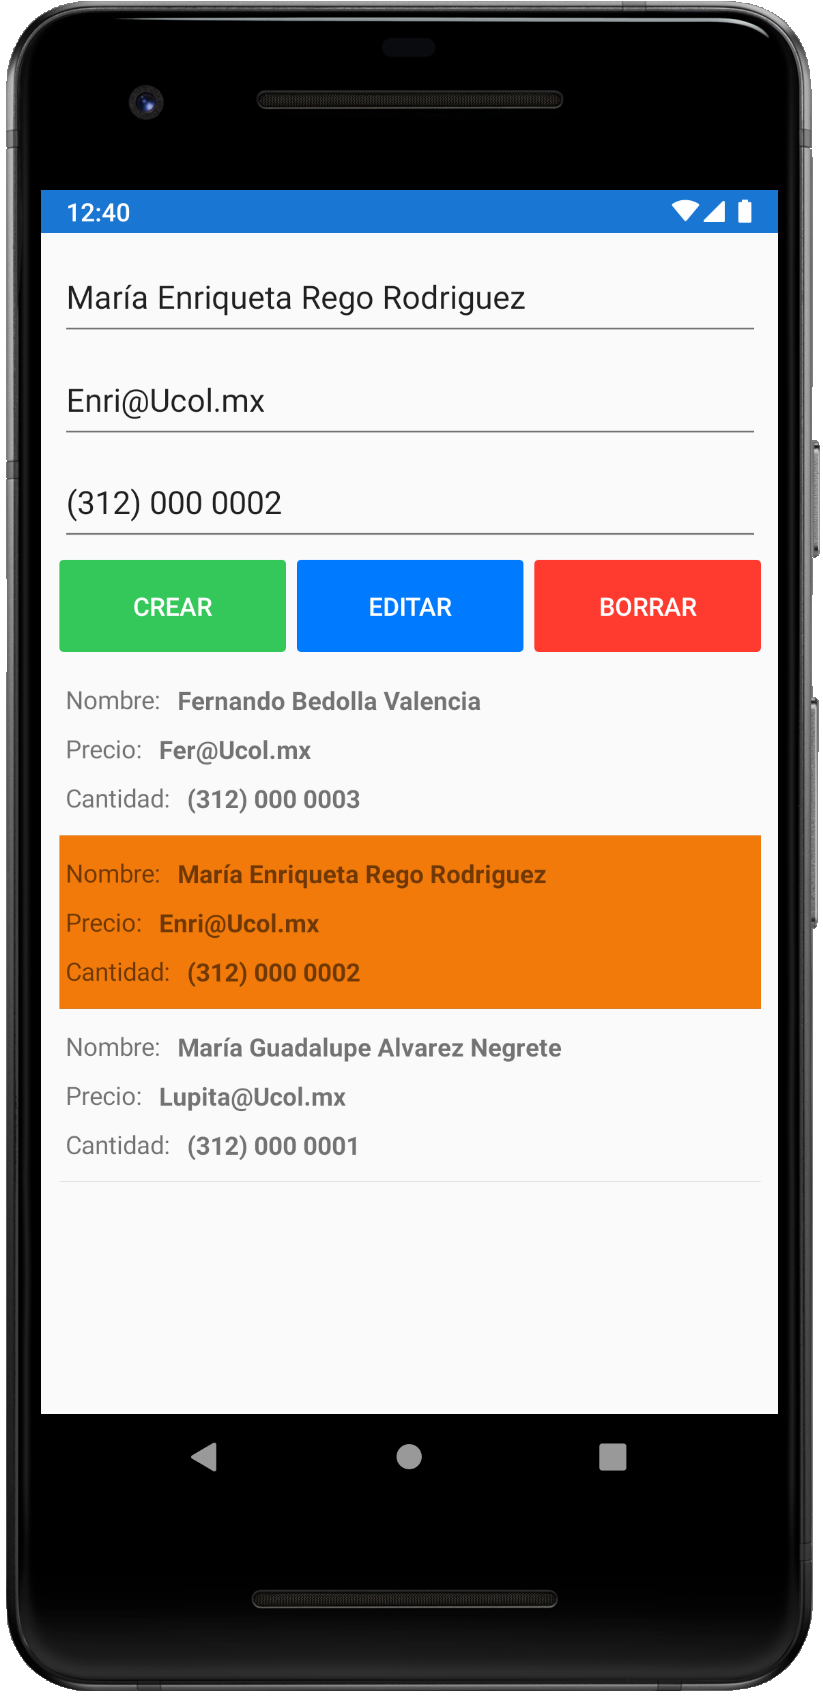
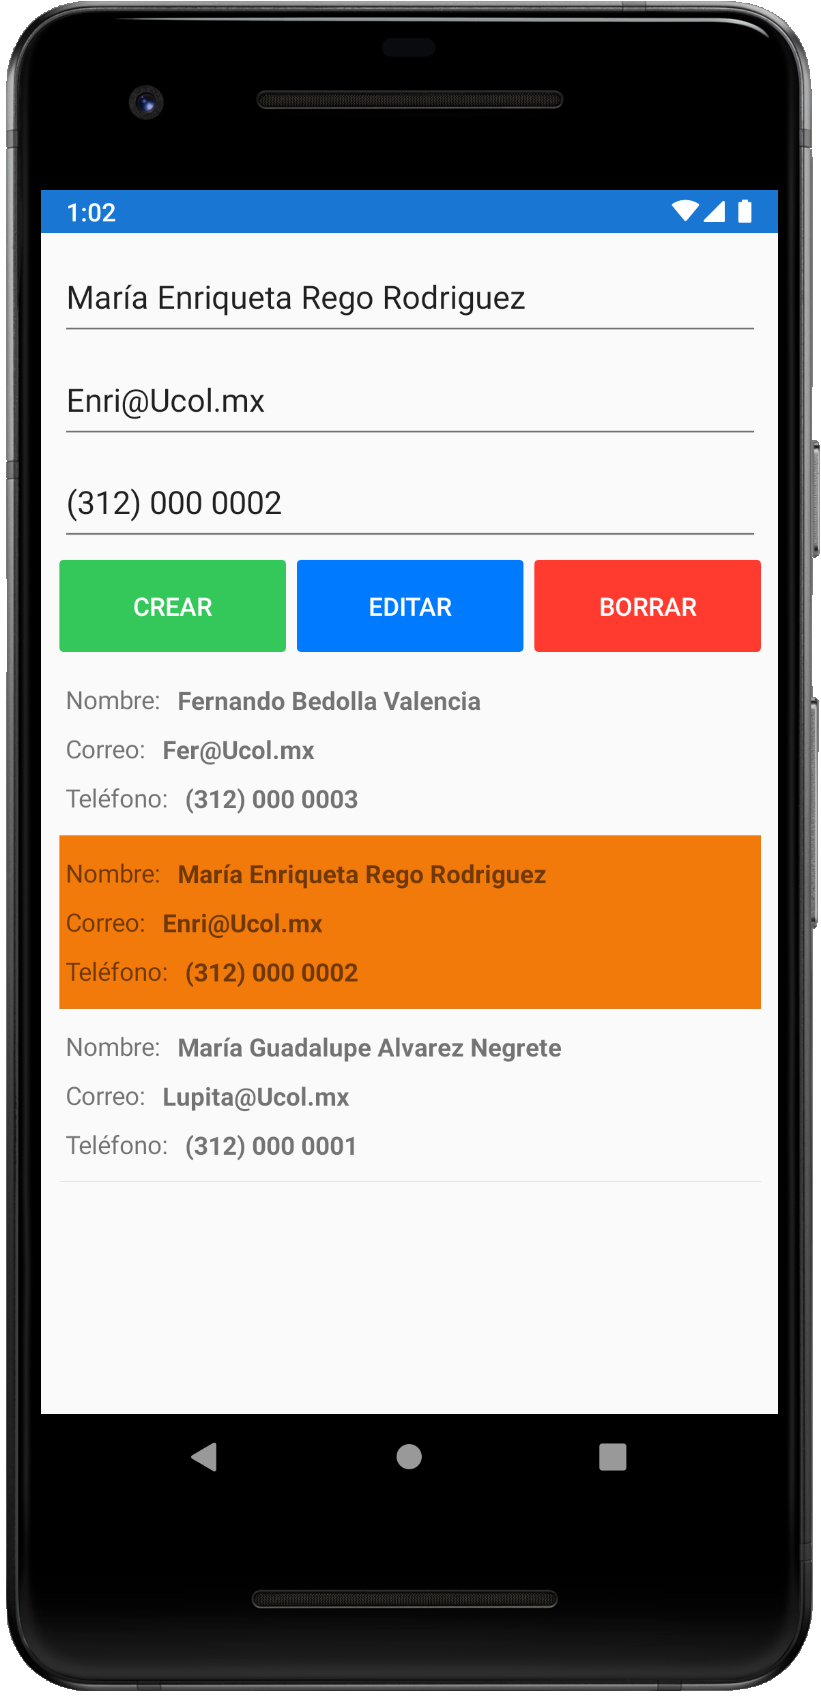
Versión Final

diff --git a/Actividad/Actividad/Views/PersonasPage.xaml b/Actividad/Actividad/Views/PersonasPage.xaml
@@ -112,7 +112,7 @@
                                          Orientation="Horizontal"
                                          HorizontalOptions="FillAndExpand"
                                          VerticalOptions="Start">
-                                <Label Text="Precio: " />
+                                <Label Text="Correo: " />
                                 <Label Text="{Binding Correo}"
                                        VerticalTextAlignment="Center"
                                        FontAttributes="Bold"
@@ -123,7 +123,7 @@
                                          Orientation="Horizontal"
                                          HorizontalOptions="FillAndExpand"
                                          VerticalOptions="Start">
-                                <Label Text="Cantidad: " />
+                                <Label Text="Teléfono: " />
                                 <Label Text="{Binding Telefono}"
                                        VerticalTextAlignment="Center"
                                        FontAttributes="Bold"
